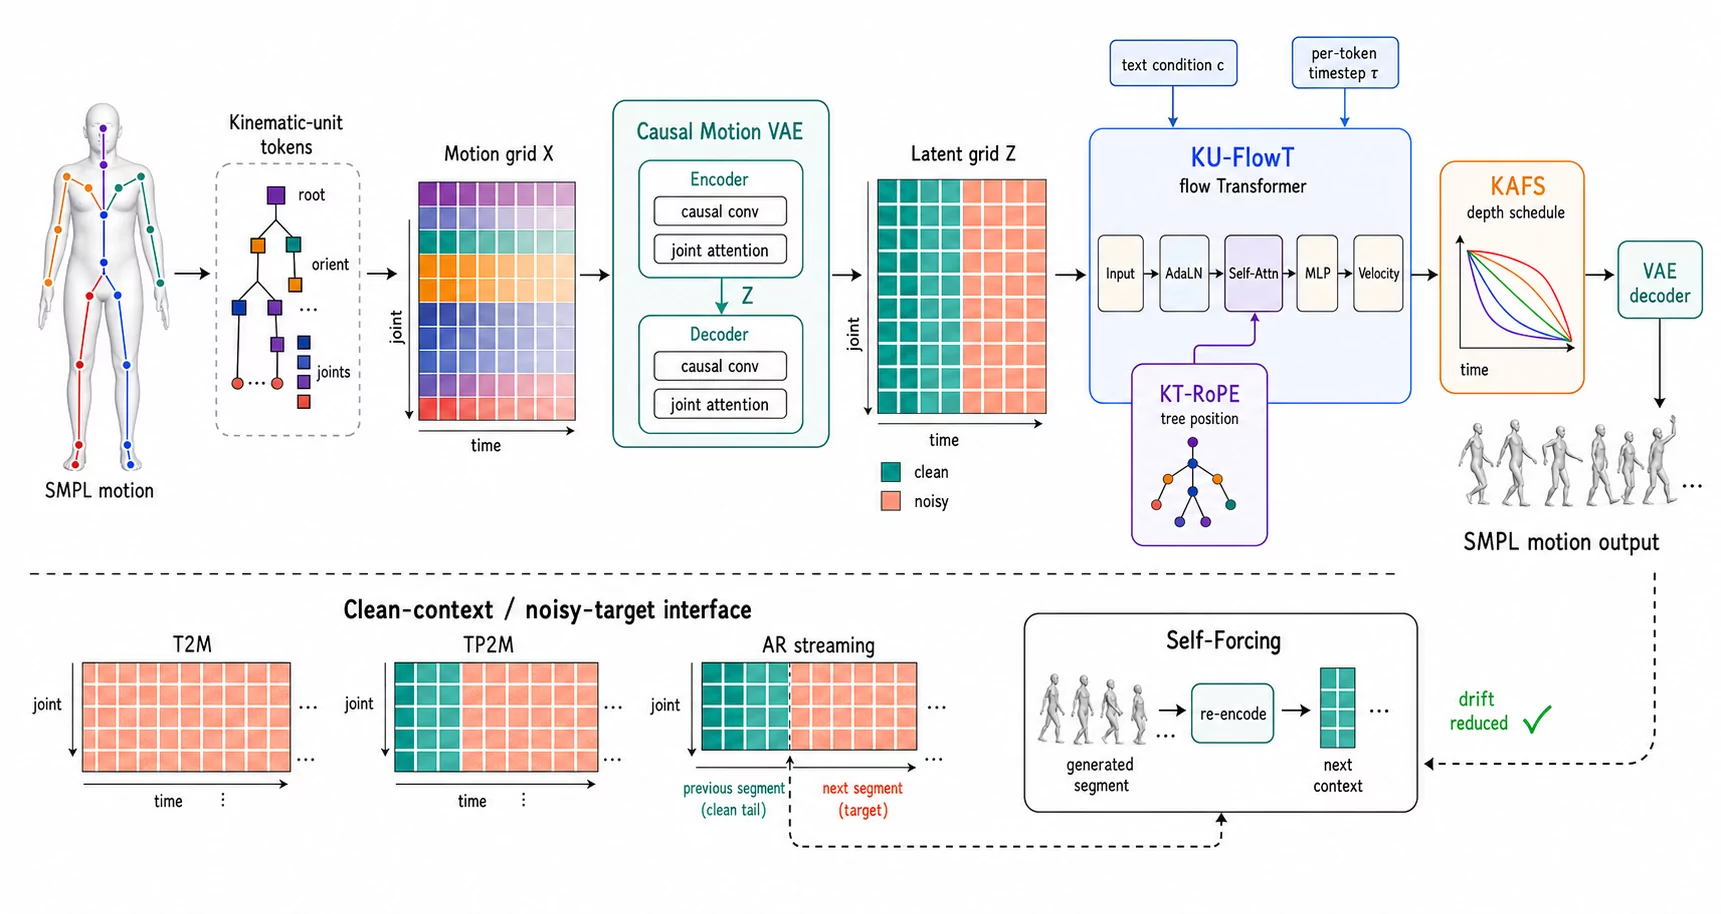
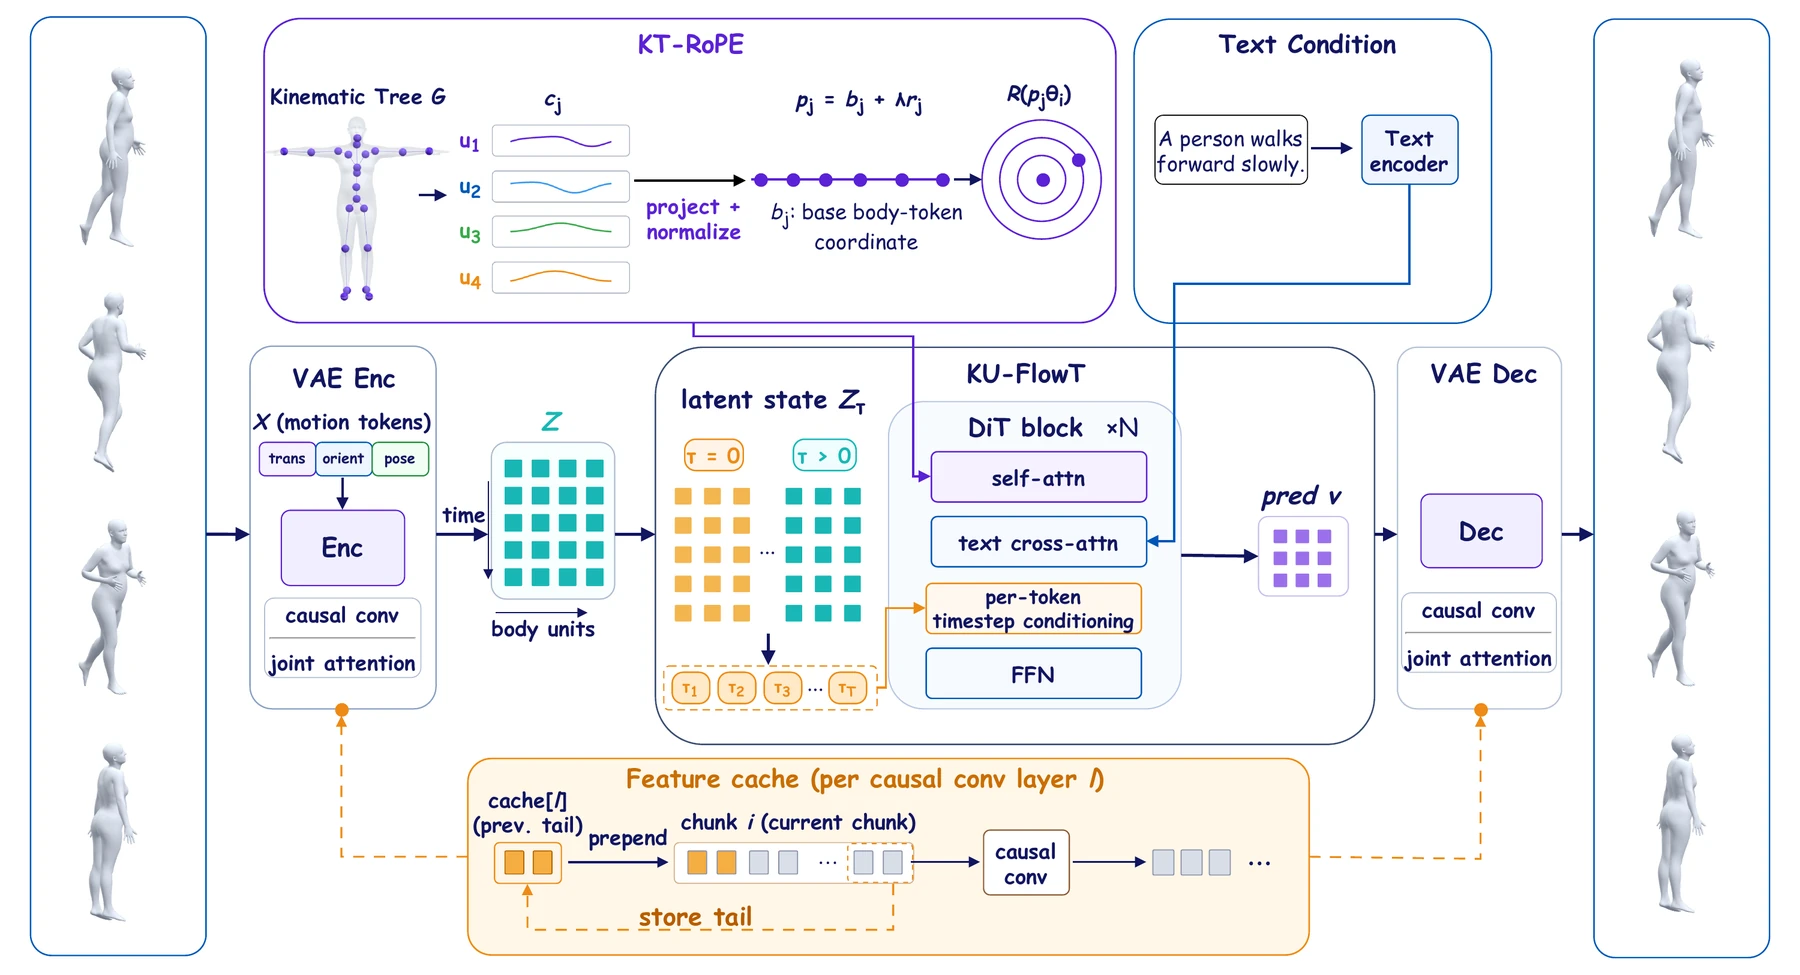
Update EnchantDance award and PRISM figure

diff --git a/script.js b/script.js
@@ -35,6 +35,7 @@ const translations = {
     "research.motionUnderstanding": "Human Motion Understanding",
     "common.present": "Present",
     "common.firstAuthor": "First author",
+    "common.thirdAuthor": "Third author",
     "common.coAuthor": "Co-author",
     "common.figure": "Figure",
     "common.demo": "Demo",
@@ -44,7 +45,7 @@ const translations = {
     "news.gentrack": "GenTrack was released as an arXiv preprint.",
     "news.prism": "PRISM preprint and code were released.",
     "news.versatile": "VersatileMotion was accepted to ECCV 2026.",
-    "news.enchant": "EnchantDance was accepted by IEEE TMM.",
+    "news.enchant": "EnchantDance received the ChinaMM 2026 Best Paper Award and was accepted by IEEE TMM.",
     "news.synclip": "SyncLipMAE was released as an arXiv preprint.",
     "news.epic": "EPIC was accepted to ICME 2025 as an Oral paper.",
     "news.mcm": "MCM was accepted to IJCAI 2024.",
@@ -59,6 +60,7 @@ const translations = {
     "papers.versatile": "A motion-language framework that unifies synthesis and comprehension across single-person and multi-person tasks.",
     "papers.synclip": "Contrastive masked pretraining for a shared talking-face representation across synchronization, facial understanding, visual speech recognition, and dubbing.",
     "papers.enchant": "Music-driven 3D dance generation with a large dance dataset, a dance VAE, and a diffusion-based generation model.",
+    "papers.enchantAward": "ChinaMM 2026 · Best Paper",
     "papers.epic": "An efficient prompt-interaction strategy for text-image classification that tunes about one percent of the foundation model parameters.",
     "papers.mcm": "A unified motion synthesis framework for combining text, music, and other control conditions through a shared control branch.",
     "openSource.eyebrow": "Open source",
@@ -108,6 +110,7 @@ const translations = {
     "research.motionUnderstanding": "人体动作理解",
     "common.present": "至今",
     "common.firstAuthor": "第一作者",
+    "common.thirdAuthor": "第三作者",
     "common.coAuthor": "共同作者",
     "common.figure": "方法图",
     "common.demo": "演示",
@@ -117,7 +120,7 @@ const translations = {
     "news.gentrack": "发布 GenTrack arXiv 预印本。",
     "news.prism": "发布 PRISM 预印本及代码。",
     "news.versatile": "VersatileMotion 被 ECCV 2026 接收。",
-    "news.enchant": "EnchantDance 被 IEEE TMM 接收。",
+    "news.enchant": "EnchantDance 获 ChinaMM 2026 最佳论文奖，并被 IEEE TMM 接收。",
     "news.synclip": "发布 SyncLipMAE arXiv 预印本。",
     "news.epic": "EPIC 被 ICME 2025 接收为 Oral 论文。",
     "news.mcm": "MCM 被 IJCAI 2024 接收。",
@@ -132,6 +135,7 @@ const translations = {
     "papers.versatile": "统一动作生成与理解的动作语言框架，覆盖单人和多人任务。",
     "papers.synclip": "面向唇音同步、人脸理解、视觉语音识别和配音任务的对比式掩码音视频预训练方法。",
     "papers.enchant": "结合大规模舞蹈数据集、Dance VAE 与扩散生成模型的音乐驱动 3D 舞蹈生成方法。",
+    "papers.enchantAward": "ChinaMM 2026 · 最佳论文",
     "papers.epic": "高效的文本与图像提示交互方法，仅需微调约百分之一的基础模型参数。",
     "papers.mcm": "通过共享控制分支统一组合文本、音乐等多种条件的动作合成框架。",
     "openSource.eyebrow": "开源",

diff --git a/index.html b/index.html
@@ -164,7 +164,7 @@
           <li><time>2026.08</time><span data-i18n="news.gentrack">GenTrack was released as an arXiv preprint.</span></li>
           <li><time>2026.03</time><span data-i18n="news.prism">PRISM preprint and code were released.</span></li>
           <li><time>2026</time><span data-i18n="news.versatile">VersatileMotion was accepted to ECCV 2026.</span></li>
-          <li><time>2026</time><span data-i18n="news.enchant">EnchantDance was accepted by IEEE TMM.</span></li>
+          <li><time>2026</time><span data-i18n="news.enchant">EnchantDance received the ChinaMM 2026 Best Paper Award and was accepted by IEEE TMM.</span></li>
           <li><time>2025.10</time><span data-i18n="news.synclip">SyncLipMAE was released as an arXiv preprint.</span></li>
           <li><time>2025</time><span data-i18n="news.epic">EPIC was accepted to ICME 2025 as an Oral paper.</span></li>
           <li><time>2024</time><span data-i18n="news.mcm">MCM was accepted to IJCAI 2024.</span></li>
@@ -212,7 +212,7 @@
                 <button class="media-tab" type="button" data-media-target="demo" aria-selected="false"><i data-lucide="play"></i><span data-i18n="common.demo">Demo</span></button>
               </div>
               <div class="media-stage">
-                <div class="media-panel active" data-media-panel="figure"><img src="assets/prism-overview.webp" alt="PRISM method overview" decoding="async" /></div>
+                <div class="media-panel active" data-media-panel="figure"><img src="assets/prism-overview.webp" alt="Latest PRISM v10 method overview" decoding="async" /></div>
                 <div class="media-panel" data-media-panel="demo" hidden>
                   <button class="video-launch" type="button" data-video-id="3PBFpYcwGIM" aria-label="Play PRISM research demo">
                     <img src="assets/prism-demo-poster.jpg" alt="PRISM demo poster" loading="lazy" />
@@ -282,9 +282,9 @@
               </div>
             </div>
             <div class="paper-content">
-              <div class="paper-meta"><span class="venue venue-gold">IEEE TMM 2026</span><span data-i18n="common.coAuthor">Co-author</span></div>
+              <div class="paper-meta"><span class="venue venue-gold">IEEE TMM 2026</span><span class="paper-award"><i data-lucide="award" aria-hidden="true"></i><span data-i18n="papers.enchantAward">ChinaMM 2026 · Best Paper</span></span><span data-i18n="common.thirdAuthor">Third author</span></div>
               <h3>EnchantDance: Unveiling the Potential of Music-Driven Dance Movement</h3>
-              <p class="paper-authors">Bo Han, Yuming Feng, <strong>Zeyu Ling</strong>, et al.</p>
+              <p class="paper-authors">Bo Han, Teng Zhang, <strong>Zeyu Ling</strong>, Feilin Han</p>
               <p class="paper-summary" data-i18n="papers.enchant">Music-driven 3D dance generation with a large dance dataset, a dance VAE, and a diffusion-based generation model.</p>
               <div class="paper-links"><a href="https://arxiv.org/abs/2312.15946" target="_blank" rel="noreferrer"><i data-lucide="file-text"></i>Paper</a><a href="https://github.com/fluide1022/EnchantDance" target="_blank" rel="noreferrer"><i data-lucide="github"></i>Code</a><a href="https://fluide1022.github.io/EnchantDance/" target="_blank" rel="noreferrer"><i data-lucide="external-link"></i>Project</a></div>
             </div>

diff --git a/styles.css b/styles.css
@@ -888,6 +888,31 @@ html[data-theme="dark"] .media-stage {
 .venue-violet { background: var(--violet); }
 .venue-green { background: var(--green); }
 
+.paper-award {
+  display: inline-flex;
+  align-items: center;
+  gap: 5px;
+  min-height: 24px;
+  padding: 0 8px;
+  color: #725500;
+  background: #fff1b8;
+  border: 1px solid rgba(151, 119, 0, 0.3);
+  font-weight: 600;
+  text-transform: none;
+}
+
+.paper-award svg {
+  width: 13px;
+  height: 13px;
+  stroke-width: 1.9;
+}
+
+html[data-theme="dark"] .paper-award {
+  color: #fff0a8;
+  background: rgba(151, 119, 0, 0.28);
+  border-color: rgba(255, 224, 92, 0.4);
+}
+
 .paper-content h3 {
   margin: 20px 0 12px;
   max-width: 660px;
